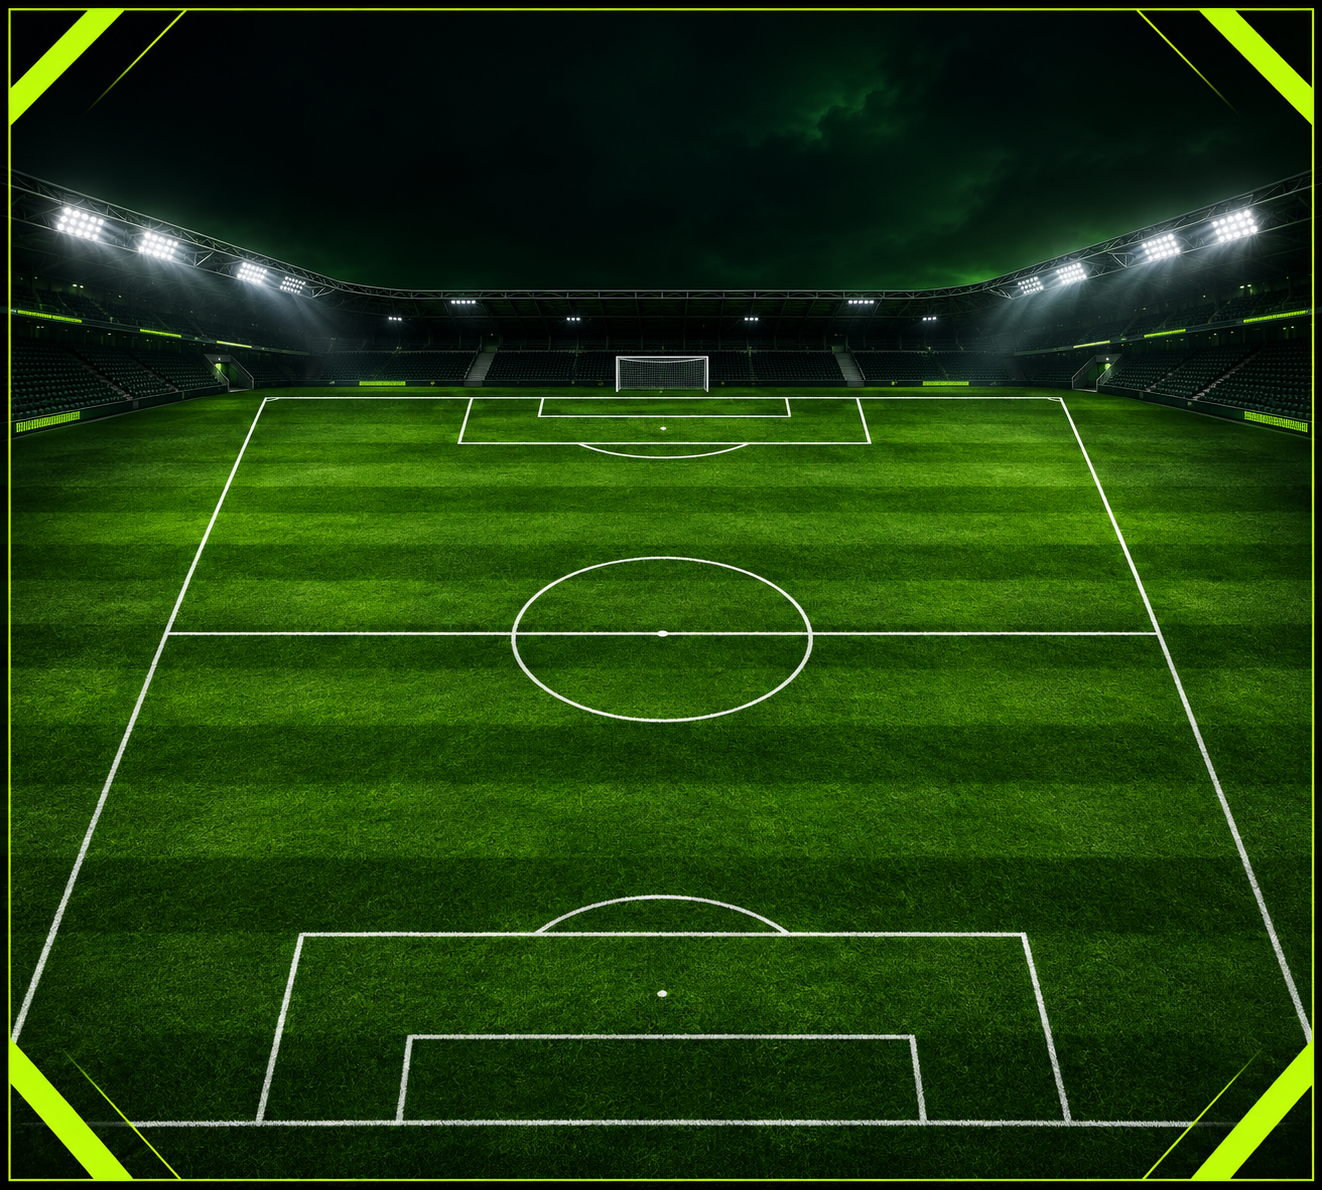
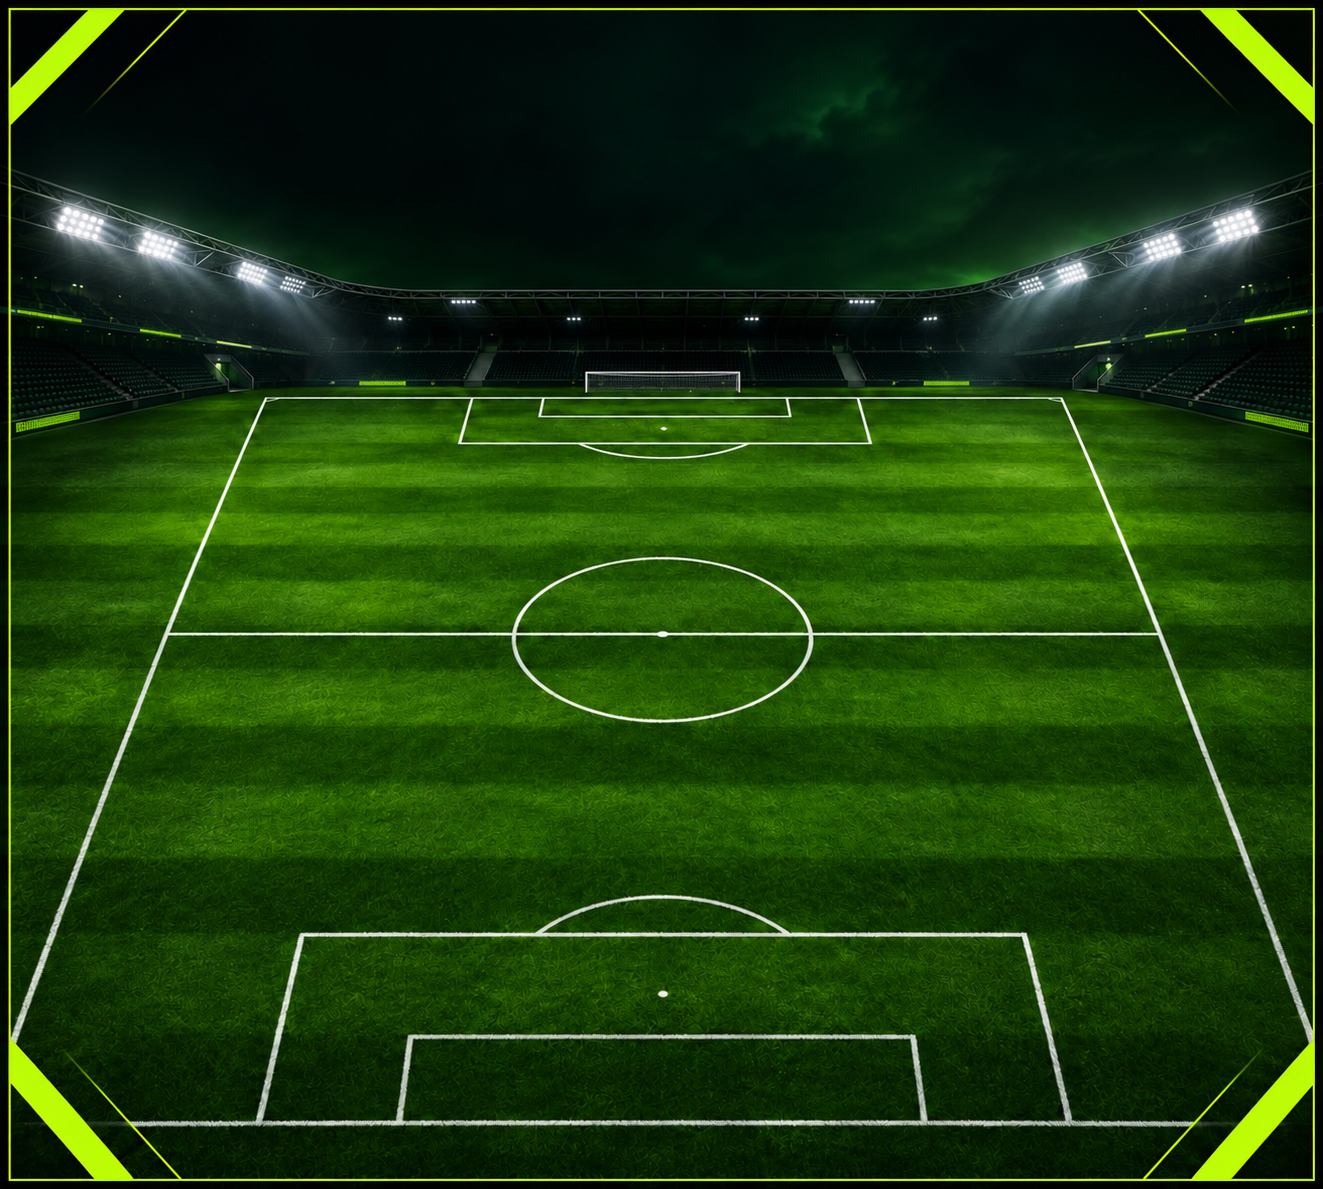
Widen the poster goal and align branding near the right frame

diff --git a/src/features/lineups/share-card.tsx b/src/features/lineups/share-card.tsx
@@ -48,10 +48,12 @@ export function LineupPoster({ clubName, crestUrl, lineup, candidates, shirtColo
         <Text x={0} y={68} textAnchor="middle" fill="#FFFFFF" fontFamily="Arial" fontSize={nameFontSize} fontWeight="bold">{player.name}</Text>
       </G>;
     })}
-    <Rect x={896} y={g.height - 98} width={337} height={66} rx={14} fill="#041007" fillOpacity={0.97} stroke="#BDFF43" strokeOpacity={0.3} />
-    <Text x={910} y={g.height - 57} fill="#FFFFFF" fontFamily="Arial" fontSize={14}>Powered by</Text>
-    <Image href={require('../../../assets/images/icon.png')} x={987} y={g.height - 94} width={58} height={58} preserveAspectRatio="xMidYMid meet" onLoad={() => onAssetLoad?.('brand')} />
-    <Text x={1037} y={g.height - 54} fill="#FFFFFF" fontFamily="Arial" fontSize={28} fontWeight="bold">ConvoSquad</Text>
+    <G transform={`translate(${g.width - 337 - 14} ${g.height - 98})`}>
+      <Rect width={337} height={66} rx={14} fill="#041007" fillOpacity={0.97} stroke="#BDFF43" strokeOpacity={0.3} />
+      <Text x={14} y={41} fill="#FFFFFF" fontFamily="Arial" fontSize={14}>Powered by</Text>
+      <Image href={require('../../../assets/images/icon.png')} x={91} y={4} width={58} height={58} preserveAspectRatio="xMidYMid meet" onLoad={() => onAssetLoad?.('brand')} />
+      <Text x={141} y={44} fill="#FFFFFF" fontFamily="Arial" fontSize={28} fontWeight="bold">ConvoSquad</Text>
+    </G>
   </Svg>;
 }
 

diff --git a/docs/lineup-poster.md b/docs/lineup-poster.md
@@ -8,6 +8,8 @@ La exportación utiliza un lienzo vertical de 1324 × 1740. La cabecera ocupa 18
 
 Las camisetas y los dorsales tienen una ampliación adicional del 15 % respecto a los nombres. Sus límites incluyen el trazo del SVG para que el cálculo de separación contemple el nuevo tamaño.
 
+La firma «Powered by ConvoSquad» queda a 6 píxeles del marco derecho. La portería del fondo se ha ensanchado y rebajado en la imagen base para compensar el estiramiento vertical del campo y conservar proporciones de fútbol.
+
 La preparación del escudo termina antes de montar la vista que se captura. En nativo, `poster-readiness.ts` espera el layout y los eventos de carga del fondo, escudo y marca. Después deja dos fotogramas para el dibujo antes de `captureRef`. Una imagen que no termina de cargar cancela la captura tras 15 segundos en lugar de exportar un recuadro vacío. Los callbacks están ligados a la captura concreta, para que un evento antiguo no complete otra captura.
 
 En web se espera el layout y el exportador incrusta las imágenes en el SVG y utiliza `Image.decode()` antes de dibujar el PNG. La vista capturada no añade márgenes exteriores y conserva la misma relación de aspecto que el SVG.
